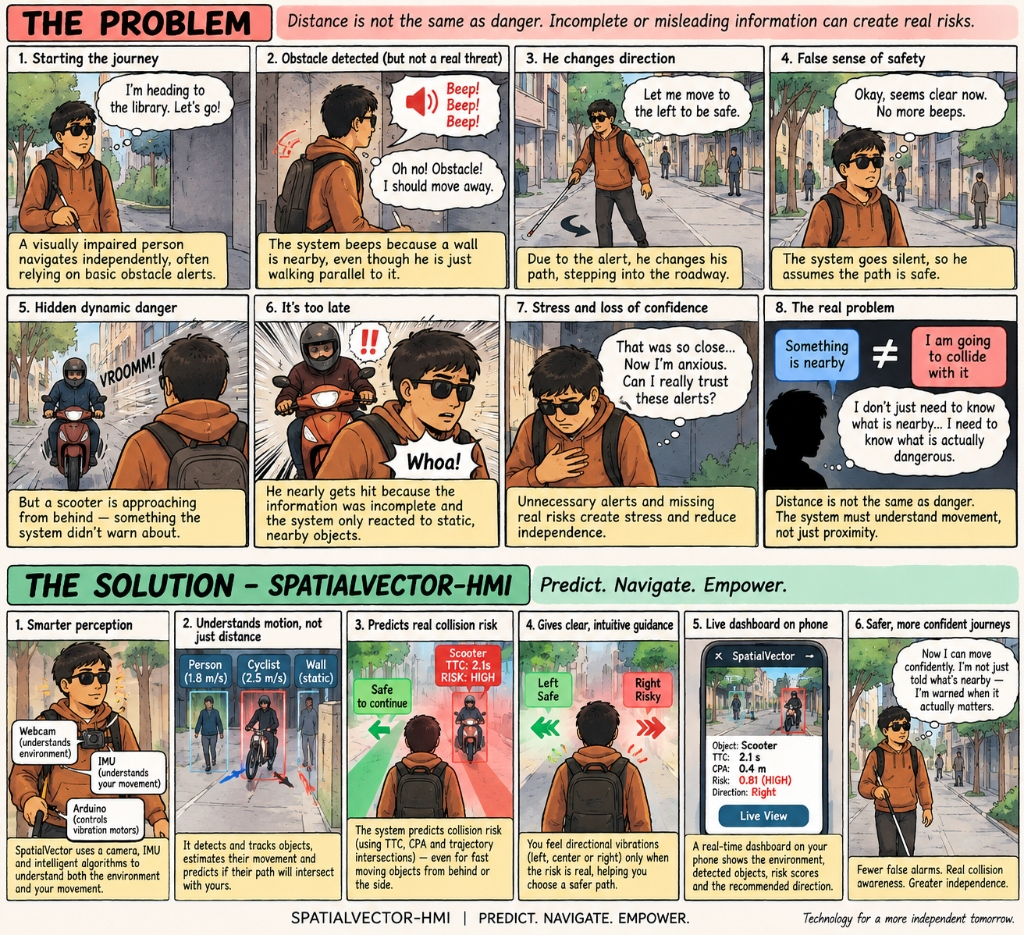
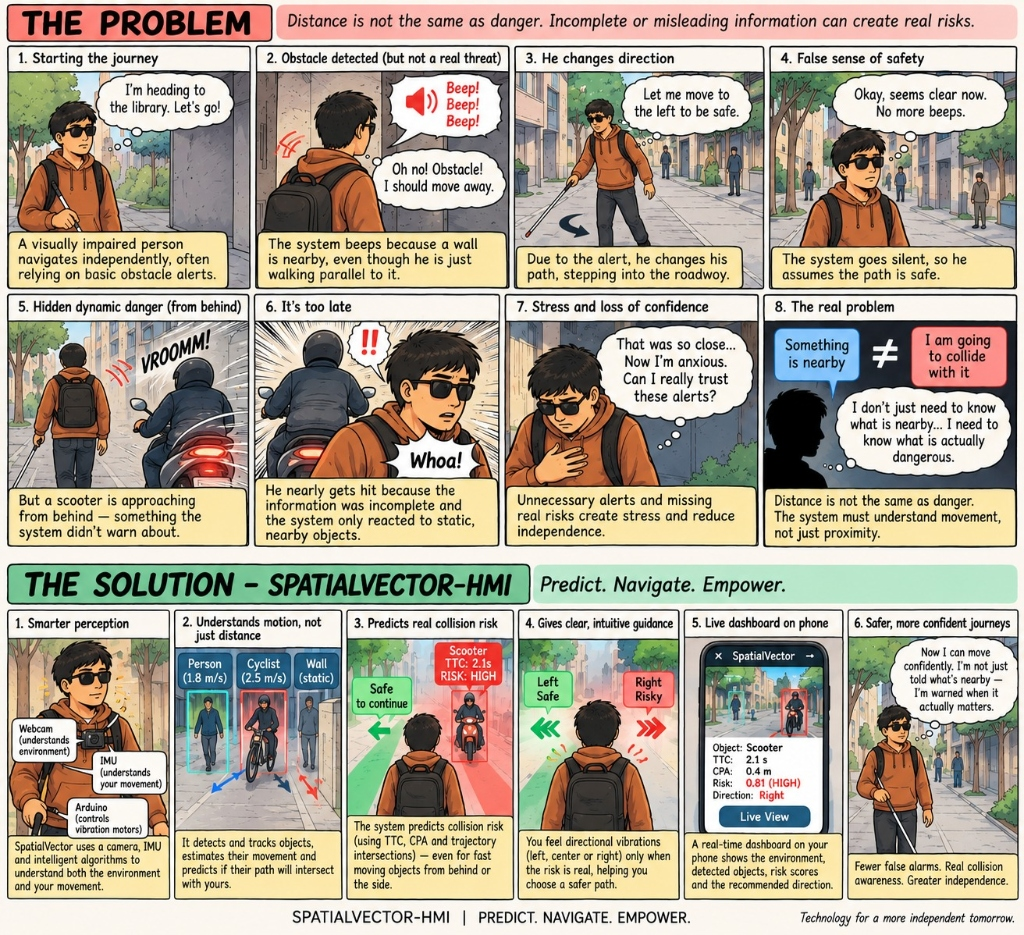
Update comic image and clean up hardware section in README

diff --git a/README.md b/README.md
@@ -65,16 +65,16 @@ M12 Logger + Replay + Evaluation Harness
 
 ---
 
-## Hardware
+## Hardware Components
 
-| Component | Source | Purpose |
-|---|---|---|
-| Webcam | HOD | Chest-mounted vision input |
-| Arduino Uno | HOD | Haptic controller |
-| Vibration motors ×3 | Buy (~₹150–₹200) | Left / Center / Right tactile output |
-| IMU / MPU6050 | HOD | Ego-motion compensation |
-| Power bank | Prajwal | Portable power |
-| Chest harness | Ready | Stable camera placement |
+| Component | Description & Role |
+|---|---|
+| Chest-Mounted Camera / Webcam | Real-time egocentric visual sensing |
+| Microcontroller (Arduino Uno) | Haptic driver & pattern controller |
+| Vibration Motors (×3) | Directional tactile feedback (Left / Center / Right) |
+| IMU / Gyroscope (MPU6050) | Camera rotation & body ego-motion compensation |
+| Power Bank | Portable, untethered power supply |
+| Chest Harness | Rigid, aligned mounting for camera & IMU |
 
 ---
 
